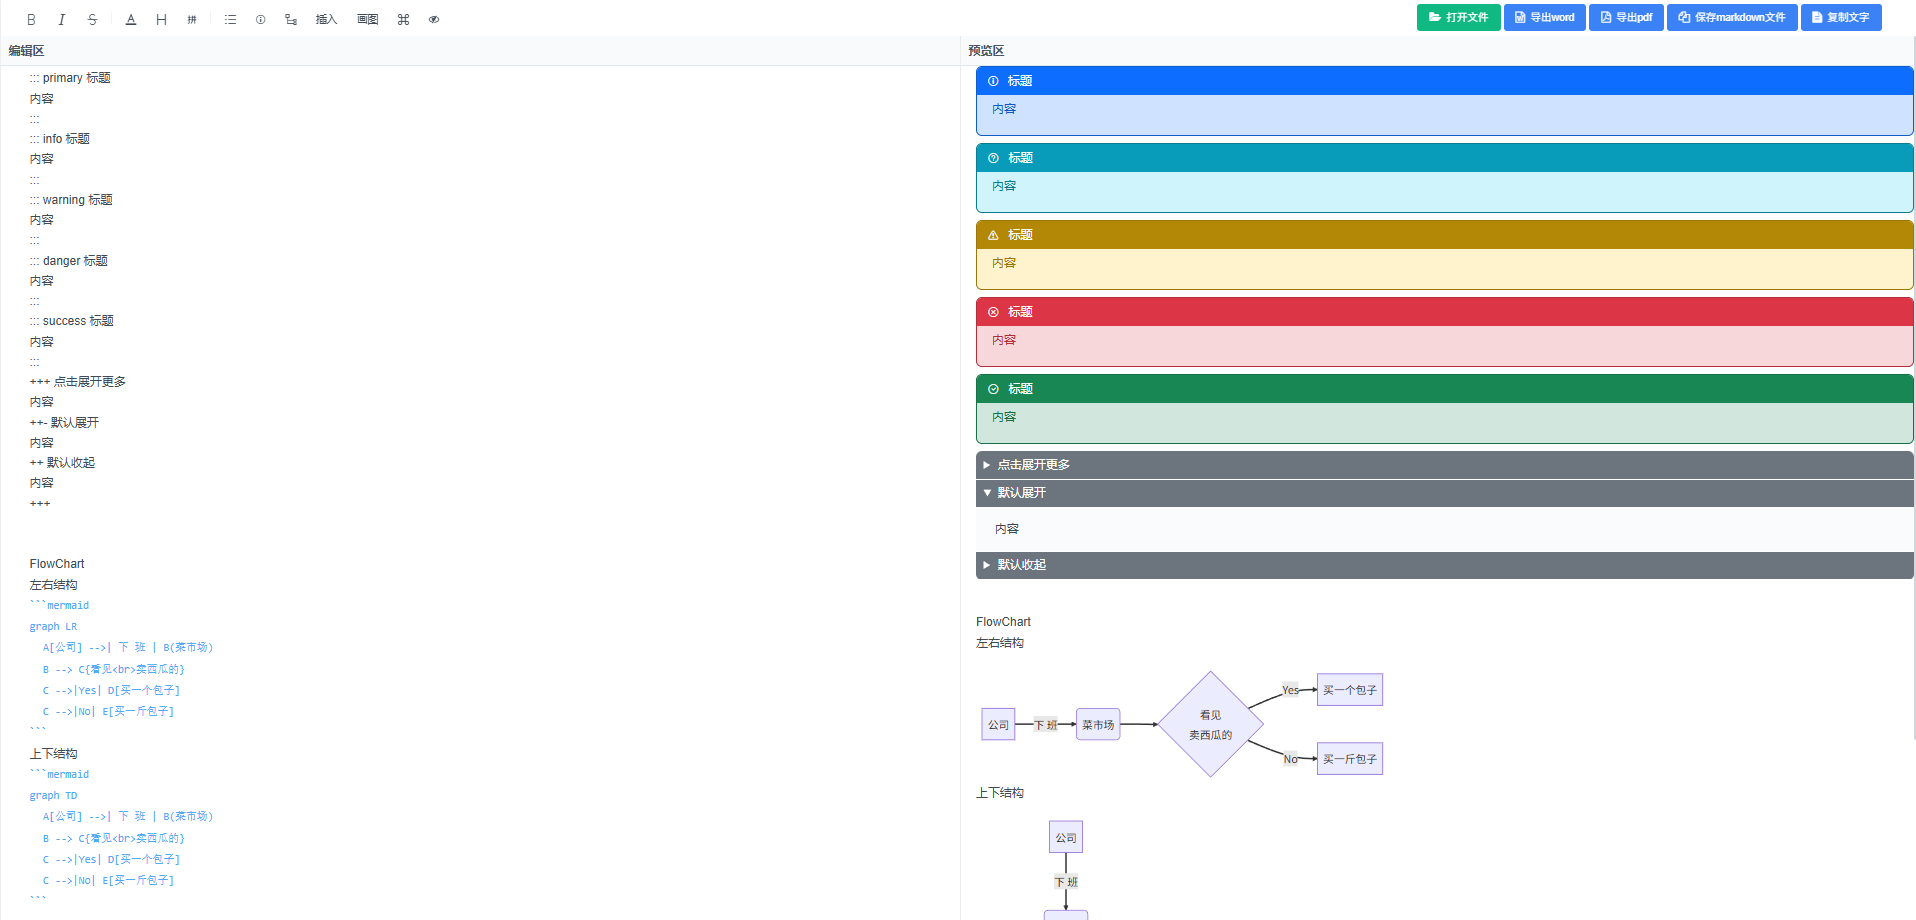
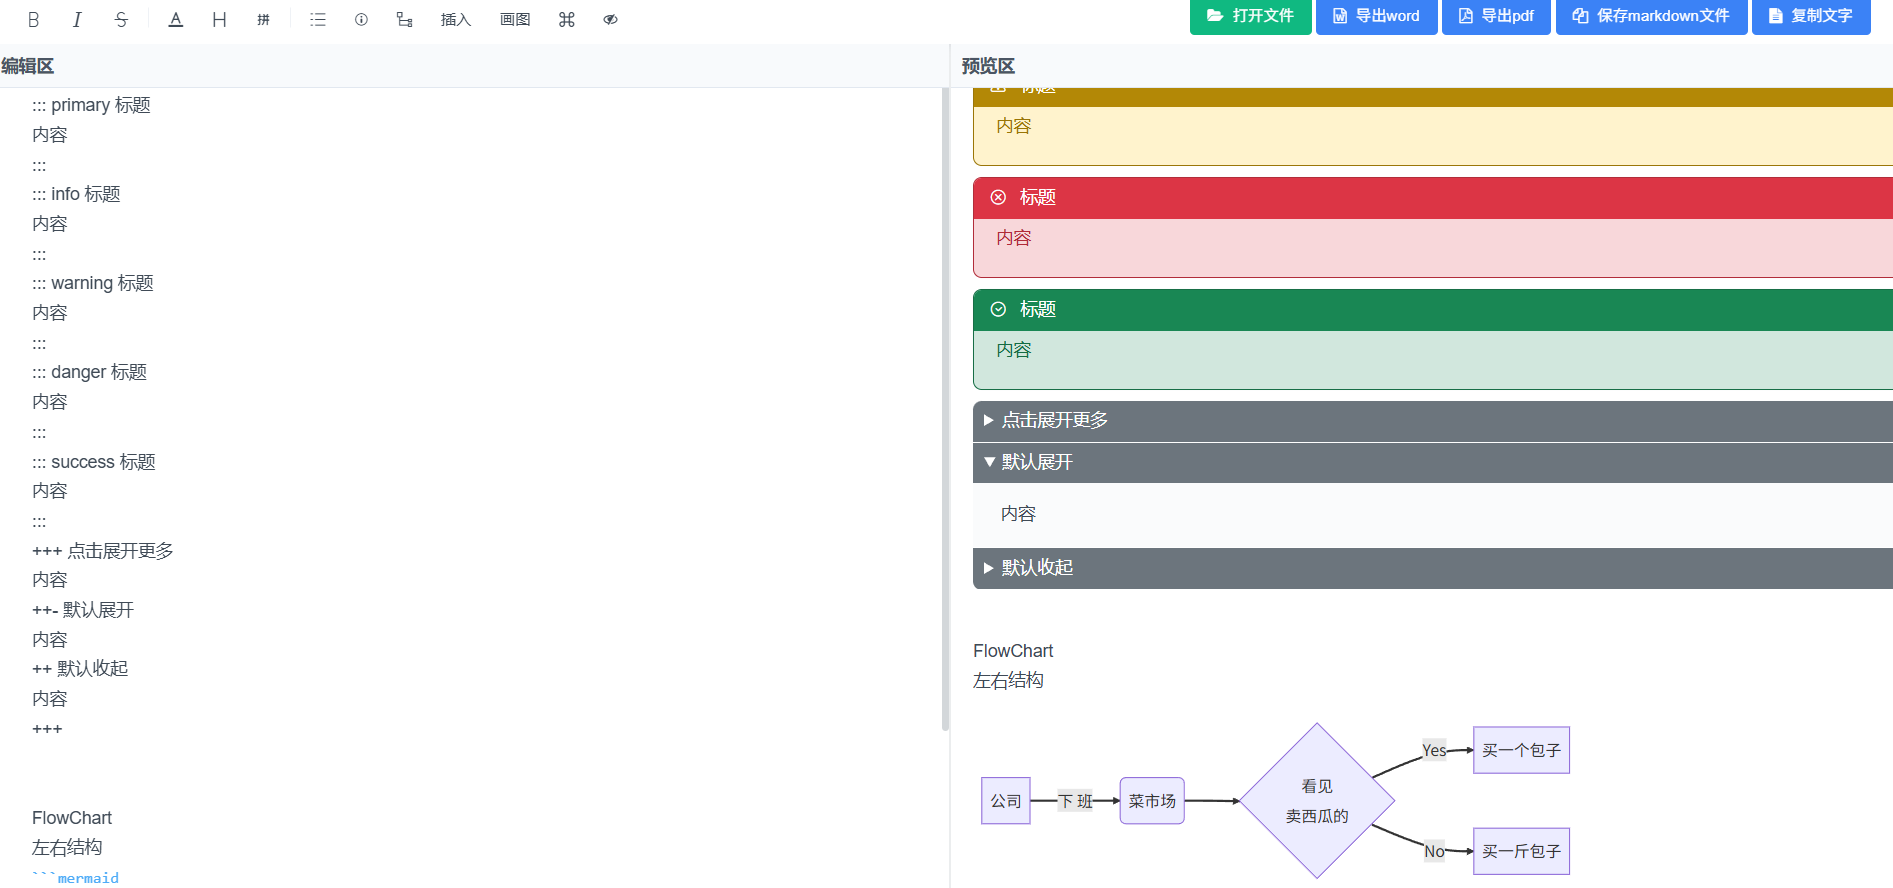
导入功能添加

diff --git a/src/utils/PptxToMd.py b/src/utils/PptxToMd.py
@@ -1,0 +1,176 @@
+import pptx2md
+from pathlib import Path
+import os
+import tempfile
+import shutil  # 新增：用于清理临时目录
+
+
+# 导入你的IDUtil工具类
+from utils import IDUtil
+from utils.ImgToBase64Utils import OutputFormat
+from utils.ImgToBase64Utils import Image2Base64
+
+def replace_img_with_base64(md_file: Path, img_dir: Path, del_temp_img: bool = True):
+    """
+    终极修复版：解决URL编码(%5C)、Windows反斜杠、相对/绝对路径等所有匹配问题
+    :param md_file: 生成的MD文件路径
+    :param img_dir: pptx2md导出的临时图片目录
+    :param del_temp_img: 是否删除临时图片/目录（推荐True）
+    """
+    import urllib.parse  # 内置库，无需额外安装，处理URL编码/解码
+
+    if not md_file.exists() or not img_dir.is_dir():
+        print(f"⚠ 跳过Base64替换：MD文件或图片目录不存在")
+        return
+
+    # 1. 读取MD内容，保留原始编码格式
+    with open(md_file, 'r', encoding='utf-8') as f:
+        md_content = f.read()
+
+    img_path_2_b64 = {}
+    # 2. 遍历临时图片，生成所有需要匹配的路径格式 + Base64映射
+    for img_file in img_dir.glob("*.*"):
+        if not img_file.is_file():
+            continue
+        try:
+            # 调用你的Base64工具类生成MD格式的Base64（参数可按需求调整）
+            b64_md_str = Image2Base64.convert_file(
+                image_path=img_file,
+                max_dim=1200,
+                max_kb=200,
+                force_webp=True,
+                out_format=OutputFormat.MARKDOWN_ALT,
+                quality=80
+            )
+
+            # 关键：生成5种需要替换的路径格式，覆盖pptx2md所有生成情况
+            img_dir_name = img_dir.name  # 临时目录名（如4fb6cc7bfcbb11f0aefebc2411ecbf31_pptx_imgs）
+            img_name = img_file.name     # 图片名（如测试文件_0.jpg）
+            # 格式1：绝对路径（C:\Temp\xxx_imgs\测试文件_0.jpg）
+            img_path_2_b64[str(img_file)] = b64_md_str
+            # 格式2：纯文件名（测试文件_0.jpg）
+            img_path_2_b64[img_name] = b64_md_str
+            # 格式3：Windows原始反斜杠相对路径（xxx_imgs\测试文件_0.jpg）
+            win_relative_path = f"{img_dir_name}\\{img_name}"
+            img_path_2_b64[win_relative_path] = b64_md_str
+            # 格式4：URL编码后的相对路径（xxx_imgs%5C测试文件_0.jpg）【核心修复项】
+            url_encoded_path = urllib.parse.quote(win_relative_path, safe='')
+            img_path_2_b64[url_encoded_path] = b64_md_str
+            # 格式5：正斜杠相对路径（xxx_imgs/测试文件_0.jpg）【兼容兜底】
+            slash_relative_path = f"{img_dir_name}/{img_name}"
+            img_path_2_b64[slash_relative_path] = b64_md_str
+
+        except Exception as e:
+            print(f"⚠ 单张图片转Base64失败: {img_file.name} | 错误: {e}")
+            continue
+
+    # 3. 批量替换：按「长路径优先」替换，避免短路径匹配冲突
+    # 排序：路径越长越先替换，防止纯文件名先匹配导致长路径替换失败
+    for raw_img_path in sorted(img_path_2_b64.keys(), key=len, reverse=True):
+        md_content = md_content.replace('![]('+raw_img_path+')', img_path_2_b64[raw_img_path])
+
+    # 4. 重写MD文件，写入Base64内嵌内容
+    with open(md_file, 'w', encoding='utf-8') as f:
+        f.write(md_content)
+
+    # 5. 清理临时图片目录，避免冗余
+    if del_temp_img:
+        try:
+            import shutil
+            shutil.rmtree(img_dir)
+            print(f"✅ 清理临时图片目录完成: {img_dir.name}")
+        except Exception as e:
+            print(f"⚠ 临时图片目录清理失败: {e}")
+
+def pptx_to_md(pptx_file):
+    """单文件PPT转MD：图片自动转为Base64内嵌"""
+    # 生成唯一的MD文件名和专属图片临时目录（避免多文件冲突）
+    uuid_str = IDUtil.get_uuid()
+    md_file_path = Path(tempfile.gettempdir()) / f"{uuid_str}.md"
+    temp_img_dir = Path(tempfile.gettempdir()) / f"{uuid_str}_pptx_imgs"
+    temp_img_dir.mkdir(parents=True, exist_ok=True)  # 创建专属图片目录
+
+    # 配置pptx2md转换参数
+    config = pptx2md.ConversionConfig(
+        pptx_path=pptx_file,
+        output_path=md_file_path,
+        image_dir=temp_img_dir,  # 图片导出到「专属临时目录」，而非全局临时目录
+        disable_notes=True       # 根据需求调整：是否禁用PPT备注页转换
+    )
+    # 执行PPT转MD（此时MD中是图片路径，图片在临时目录）
+    pptx2md.convert(config)
+    # 核心步骤：调用替换函数，将MD中的图片路径改为Base64内嵌
+    replace_img_with_base64(md_file_path, temp_img_dir)
+
+    return md_file_path
+
+
+def batch_pptx_to_md(input_dir: str, output_dir: str = None, image_dir: str = None):
+    """
+    批量PPT转MD：图片自动转为Base64内嵌（原image_dir参数失效，无需传值）
+    Args:
+        input_dir (str): 包含 PPTX 文件的文件夹路径
+        output_dir (str, optional): 输出 Markdown 文件的文件夹。若为 None，则输出到与 PPTX 相同位置
+        image_dir (str, optional): 兼容原参数，实际已失效（图片不再导出到该目录，直接内嵌Base64）
+    """
+    input_path = Path(input_dir)
+    if not input_path.exists() or not input_path.is_dir():
+        raise ValueError(f"输入目录不存在或不是文件夹: {input_dir}")
+
+    # 处理输出目录
+    if output_dir is None:
+        output_path = input_path
+    else:
+        output_path = Path(output_dir)
+        output_path.mkdir(parents=True, exist_ok=True)
+
+    # 筛选所有pptx文件
+    pptx_files = list(input_path.glob("*.pptx"))
+    if not pptx_files:
+        print(f"在 {input_dir} 中未找到 .pptx 文件")
+        return
+
+    print(f"发现 {len(pptx_files)} 个 PPTX 文件，开始转换（图片自动Base64内嵌）...\n")
+
+    # 批量转换
+    for pptx_file in pptx_files:
+        try:
+            md_file = output_path / f"{pptx_file.stem}.md"
+            # 为当前PPT创建专属临时图片目录（避免多PPT图片冲突）
+            uuid_str = IDUtil.get_uuid()
+            temp_img_dir = Path(tempfile.gettempdir()) / f"{uuid_str}_{pptx_file.stem}_imgs"
+            temp_img_dir.mkdir(parents=True, exist_ok=True)
+
+            # 配置pptx2md
+            config = pptx2md.ConversionConfig(
+                pptx_path=pptx_file,
+                output_path=md_file,
+                image_dir=temp_img_dir,  # 图片导出到专属临时目录
+                disable_notes=True
+            )
+
+            print(f"正在转换: {pptx_file.name}")
+            pptx2md.convert(config)
+            # 核心：替换图片路径为Base64
+            replace_img_with_base64(md_file, temp_img_dir)
+            print(f"✅ 转换成功: {md_file.name}\n")
+
+        except Exception as e:
+            print(f"❌ 转换失败: {pptx_file.name} | 错误: {e}\n")
+            continue
+
+    print("📌 批量转换完成！所有MD文件均为图片Base64内嵌格式")
+
+
+if __name__ == "__main__":
+    # 配置你的路径（image_folder无需传值，已失效）
+    input_folder = r'D:\测试目录_全面\ppt'  # 你的PPT文件夹路径
+    output_folder = './markdown_out'       # MD输出路径，设为None则输出到PPT同目录
+    # image_folder = None  # 无需设置，图片直接Base64内嵌，该参数失效
+
+    # 执行批量转换
+    batch_pptx_to_md(
+        input_dir=input_folder,
+        output_dir=output_folder,
+        # image_dir无需传值，保留原参数仅为兼容
+    )
